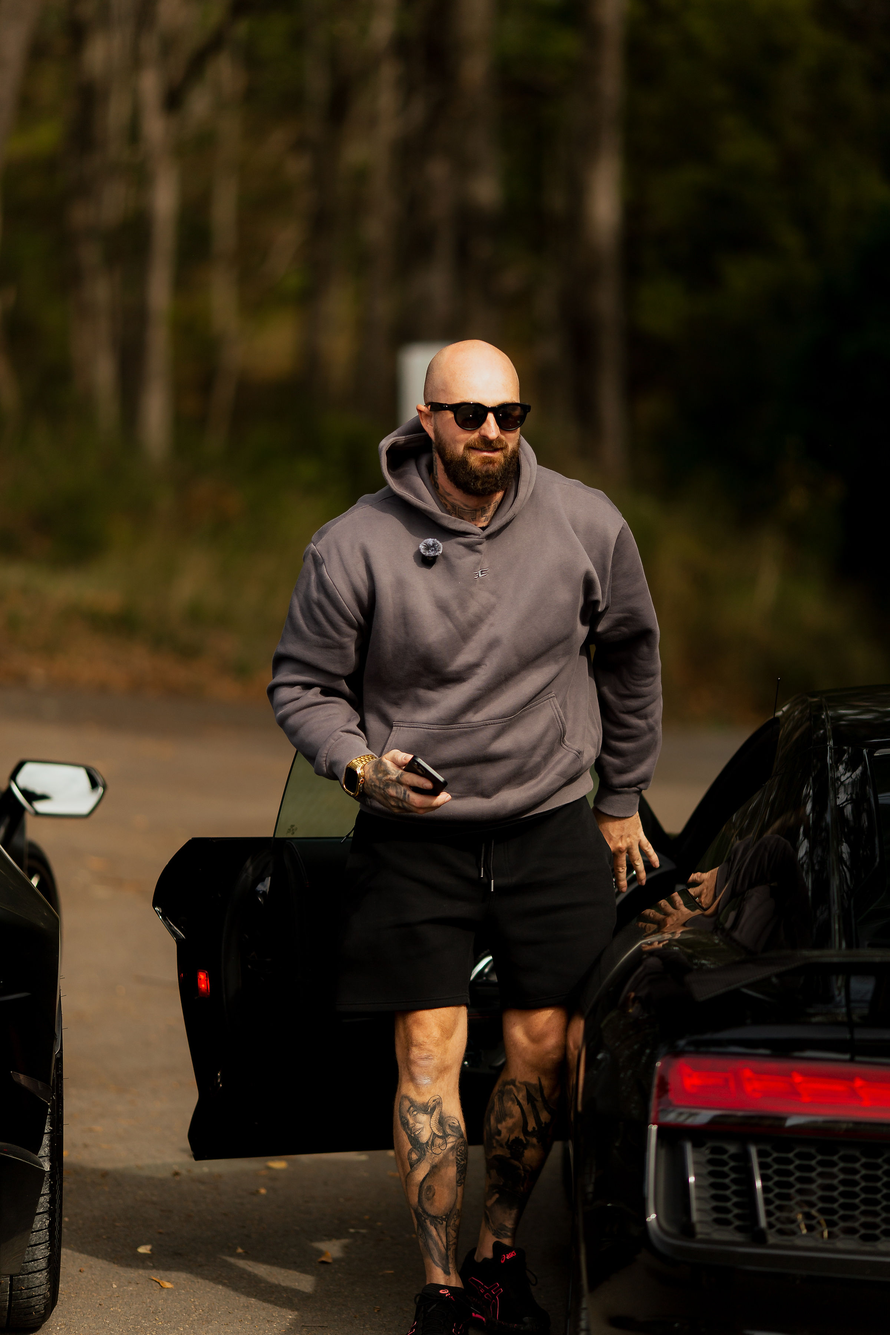
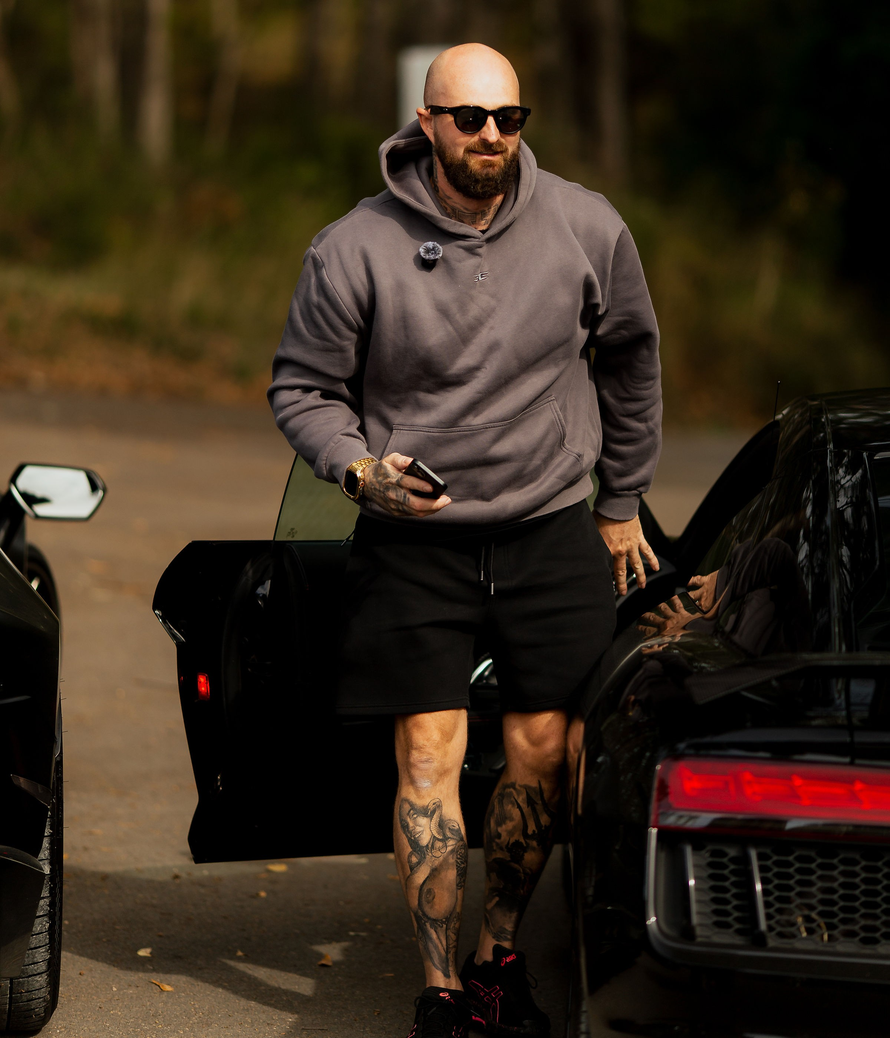
Raise the founder photo so his head sits near the top.
Crop the trees above Joey and anchor the frame to the top, leaving a small margin on phone and desktop.

diff --git a/index.html b/index.html
@@ -1,4 +1,4 @@
-<!doctype html><html lang="en-AU"><head><meta charset="utf-8"><meta name="viewport" content="width=device-width,initial-scale=1,viewport-fit=cover"><script>(function(){var meta=document.querySelector('meta[name=viewport]');var open='width=device-width,initial-scale=1,maximum-scale=1,user-scalable=no,viewport-fit=cover';var rest='width=device-width,initial-scale=1,viewport-fit=cover';var mq=window.matchMedia('(max-width:768px)');function apply(){if(meta)meta.setAttribute('content',mq.matches?open:rest)}apply();if(mq.addEventListener)mq.addEventListener('change',apply);function blockGesture(e){if(mq.matches)e.preventDefault()}document.addEventListener('gesturestart',blockGesture,{passive:false});document.addEventListener('gesturechange',blockGesture,{passive:false});document.addEventListener('gestureend',blockGesture,{passive:false});try{var htmlBuild='153';var u=new URL(location.href);if(u.searchParams.get('html')!==htmlBuild&&sessionStorage.getItem('imdrivn_html')!==htmlBuild){sessionStorage.setItem('imdrivn_html',htmlBuild);u.searchParams.set('html',htmlBuild);location.replace(u.pathname+u.search+u.hash)}}catch(e){}})();</script>
+<!doctype html><html lang="en-AU"><head><meta charset="utf-8"><meta name="viewport" content="width=device-width,initial-scale=1,viewport-fit=cover"><script>(function(){var meta=document.querySelector('meta[name=viewport]');var open='width=device-width,initial-scale=1,maximum-scale=1,user-scalable=no,viewport-fit=cover';var rest='width=device-width,initial-scale=1,viewport-fit=cover';var mq=window.matchMedia('(max-width:768px)');function apply(){if(meta)meta.setAttribute('content',mq.matches?open:rest)}apply();if(mq.addEventListener)mq.addEventListener('change',apply);function blockGesture(e){if(mq.matches)e.preventDefault()}document.addEventListener('gesturestart',blockGesture,{passive:false});document.addEventListener('gesturechange',blockGesture,{passive:false});document.addEventListener('gestureend',blockGesture,{passive:false});try{var htmlBuild='154';var u=new URL(location.href);if(u.searchParams.get('html')!==htmlBuild&&sessionStorage.getItem('imdrivn_html')!==htmlBuild){sessionStorage.setItem('imdrivn_html',htmlBuild);u.searchParams.set('html',htmlBuild);location.replace(u.pathname+u.search+u.hash)}}catch(e){}})();</script>
 <title>IM DRIVN – More than a Marketplace … It's a Community</title>
 <meta name="description" content="Australia's premium marketplace for high performance cars. Why pay to sell your car when you can list it here free!">
 <link rel="icon" href="favicon.ico?v=147" sizes="any">
@@ -11,7 +11,7 @@
 <meta property="og:image" content="https://imdrivn.com.au/img/icon-512.png?v=147">
 <meta property="og:image:alt" content="IM DRIVN">
 <link rel="preconnect" href="https://fonts.googleapis.com"><link href="https://fonts.googleapis.com/css2?family=Michroma&family=Inter:wght@400;500;600&display=swap" rel="stylesheet">
-<link rel="stylesheet" href="styles.css?v=140"></head>
+<link rel="stylesheet" href="styles.css?v=141"></head>
 <body data-mode="daily"><script>(function(){var q=new URLSearchParams(location.search).get('mode');if(q)localStorage.setItem('imdrivn_mode',q)})();document.body.dataset.mode=['daily','performance','supercar'].includes(localStorage.getItem('imdrivn_mode'))?localStorage.getItem('imdrivn_mode'):'daily';(function(){var h=location.hash.replace(/^#\/?/,'').split('?')[0].split('/')[0];if(!h)document.body.classList.add('is-home');if(h==='buy'||h==='buyin')document.body.classList.add('is-buy');if(h==='sell')document.body.classList.add('is-sell');if(h==='list')document.body.classList.add('is-list');if(h==='valuation')document.body.classList.add('is-wholesale');var buy=localStorage.getItem('imdrivn_buy');if((h==='buy'||h==='car')&&buy!=='daily'&&buy!=='performance'&&buy!=='supercar')document.body.classList.add('is-all')})()</script>
 <a class="skip" href="#main">Skip to content</a>
 <header class="top"><div class="bar"><a href="#/" class="logo"><img src="img/logo.svg" alt="IM DRIVN" data-wordmark></a>
@@ -53,4 +53,4 @@
 <a href="#/join" data-r="join" aria-label="Profile"><svg viewBox="0 0 24 24"><circle cx="12" cy="8" r="4"/><path d="M4 21c1-4.5 4-6 8-6s7 1.5 8 6"/></svg></a></nav>
 <script>(function(){var full='img/logo-full.png',probe=new Image();probe.onload=function(){document.querySelectorAll('img[data-wordmark]').forEach(function(el){el.src=full});var og=document.querySelector('meta[property="og:image"]');if(og)og.content=new URL(full,location.href).href};probe.src=full})();</script>
 <script src="https://cdn.jsdelivr.net/npm/@supabase/supabase-js@2.118.0/dist/umd/supabase.js"></script>
-<script src="data.js?v=112"></script><script src="store.js?v=112"></script><script src="list-flow.js?v=112"></script><script src="valuation-flow.js?v=112"></script><script src="forum.js?v=117"></script><script src="news.js?v=112"></script><script src="app.js?v=137"></script></body></html>
+<script src="data.js?v=112"></script><script src="store.js?v=112"></script><script src="list-flow.js?v=112"></script><script src="valuation-flow.js?v=112"></script><script src="forum.js?v=117"></script><script src="news.js?v=112"></script><script src="app.js?v=138"></script></body></html>

diff --git a/app.js b/app.js
@@ -376,7 +376,7 @@ ${[['tag','1. Snap & list','Photos, price, done. Listing is 100% free.'],['gauge
 ${buyTips.map(t=>`<aside class="golden-rule buy-rule" role="note"><p>${t}</p></aside>`).join('')}<dialog class="report-dialog" id="how-vin-dialog">${vinOrderForm('how-vin-order','')}</dialog></section>`}
 function bindHow(){bindOffer('how-inspect',INSPECTION_URL);const howVin=$('#how-vin'),howDlg=$('#how-vin-dialog');if(howVin&&howDlg){howVin.onclick=()=>{if(howDlg.showModal)howDlg.showModal();else howDlg.setAttribute('open','')};howDlg.addEventListener('click',e=>{if(e.target===howDlg&&howDlg.close)howDlg.close()});bindVinOrder(null,'how-vin-order')}}
 function aboutTabs(us){return `<div class="about-switch"><div class="about-tabs" role="tablist" aria-label="About DRIVN"><a role="tab" href="#/about" id="about-tab-works" aria-selected="${us?'false':'true'}" aria-controls="about-panel">HOW IT WORKS</a><a role="tab" href="#/about/us" id="about-tab-us" aria-selected="${us?'true':'false'}" aria-controls="about-panel">WHAT IT'S ABOUT</a></div></div>`}
-function aboutUs(){return `<section class="about about-us" id="about"><div class="img"><img src="assets/about/joey-lambo.jpg" alt="Joey Lambo beside a black car" width="2400" height="3600"></div><div class="txt"><div class="eyebrow">About IM DRIVN</div>
+function aboutUs(){return `<section class="about about-us" id="about"><div class="img"><img src="assets/about/joey-lambo.jpg?v=154" alt="Joey Lambo beside a black car" width="2400" height="2800"></div><div class="txt"><div class="eyebrow">About IM DRIVN</div>
 <blockquote class="about-quote"><h2>It's more than<br>a marketplace.<br>It's a community.</h2></blockquote><h3 class="our-founder">Our founder</h3><p class="founder-name">Joey Lambo</p><p class="founder-bio">It's more than a marketplace. It's a community. That's how Joey Lambo sees it, after almost 20 years in the car industry. IM DRIVN connects Australia's car community, from supercars to performance weapons to the daily drive. Buy. Sell. Drive. All in one place. Listing is 100% free.</p><p class="founder-bio">He's watched most sellin platforms drift away from what makes cars special. They're cluttered with spam and scams, expensive to list on, and still hard to actually get a car sold. Finding a car shouldn't be complicated, and sellin one shouldn't cost a fortune. That's why he started IM DRIVN: a simple place for enthusiasts, the community, and anyone who loves cars, whether you're new to the scene, about to get your licence, or you've been around cars for years. Everyone's welcome here.</p><a class="btn" href="#/how">Learn more</a></div><div class="water" aria-hidden="true">IM DRIVN</div></section>`}
 function aboutPage(){const us=hashParts().a==='us';main.innerHTML=`${aboutTabs(us)}<div id="about-panel" role="tabpanel" aria-labelledby="${us?'about-tab-us':'about-tab-works'}">${us?aboutUs():howMarkup()}</div>`;if(!us)bindHow()}
 function authLead(){const next=sessionStorage.getItem('imdrivn_next')||'';if(next==='list')return 'Sign in to post your car. It only takes a minute.';if(next==='valuation')return 'Sign in so dealers know who the offer is for.';if(next==='join/ads')return 'Sign in to see your ads.';if(next.startsWith('msg:'))return 'Sign in to message the seller.';if(next.startsWith('car/'))return 'Sign in to report this ad.';if(next.startsWith('vin:'))return 'Sign in to ask for the rego or VIN.';return 'Buy, sell, and keep your saves in one account.'}

diff --git a/styles.css b/styles.css
@@ -206,7 +206,7 @@ body.is-lanes footer{border-top:1px solid #d9a441}
 .about .txt{padding:var(--s-7) var(--s-5);position:relative;z-index:1}.about h2{font-size:clamp(1.1rem,2.6vw,1.6rem);color:var(--c-grey)}
 .water{position:absolute;right:var(--s-5);bottom:var(--s-3);font-family:var(--font-head);font-style:italic;font-size:clamp(2rem,6vw,4rem);color:rgba(255,255,255,.05);pointer-events:none}
 .about-us .img{position:relative;background:none;min-height:420px}
-.about-us .img img{position:absolute;inset:0;width:100%;height:100%;object-fit:cover;object-position:center 18%}
+.about-us .img img{position:absolute;inset:0;width:100%;height:100%;object-fit:cover;object-position:center top}
 .about-us .img::after{content:"";position:absolute;inset:0;background:linear-gradient(90deg,transparent 42%,var(--c-bg))}
 .about-us .about-quote{margin:0 0 16px;padding:0;border:0}
 .about-us .txt{container-type:inline-size}
